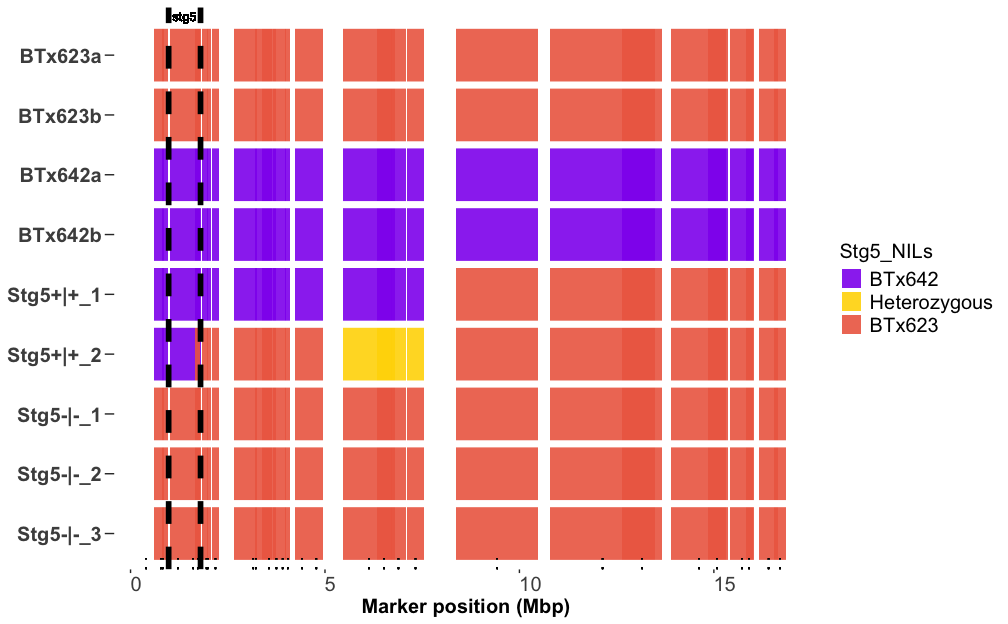
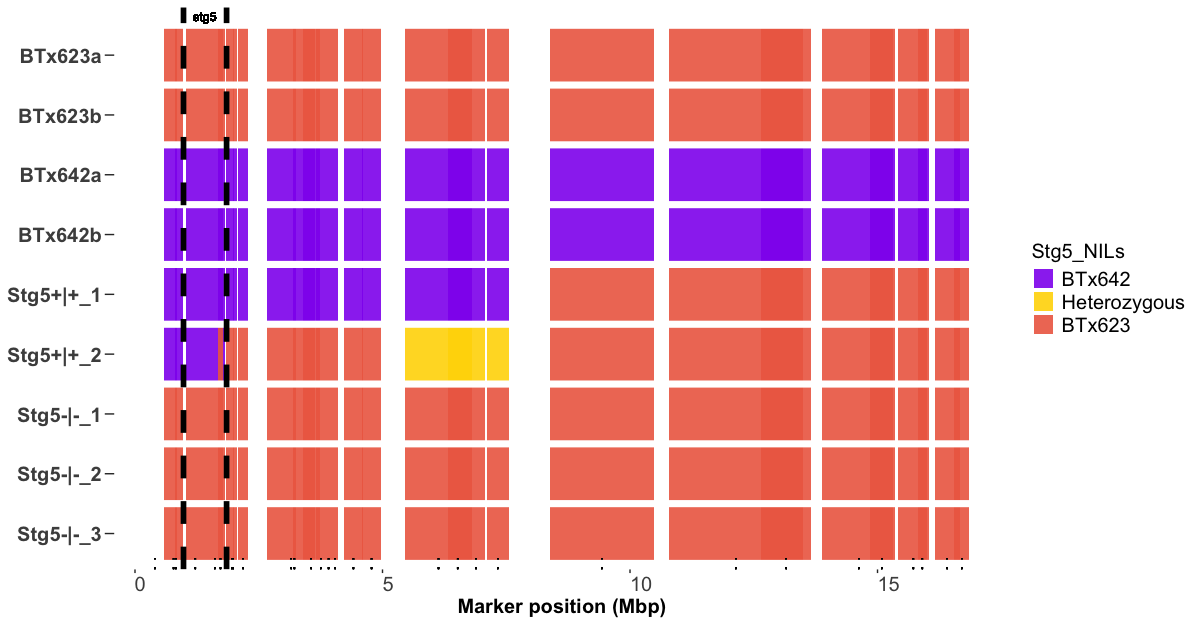
ReadMe updates RPP support

diff --git a/README.md b/README.md
@@ -1601,7 +1601,7 @@ cross_qc_annotate(x = stg5_ch1,
                   chr = 'chr',
                   chr_pos = 'pos',
                   parents = c("BTx623", "BTx642"),
-                  trait_pos = list(stg5 = c(start = .98e6, end = 1.8e6)),
+                  trait_pos = list(stg5 = c(start = .98e6, end = 1.85e6)),
                   text_scale_fct = 0.3,
                   group_sz = 5L,
                   pdf = FALSE,
